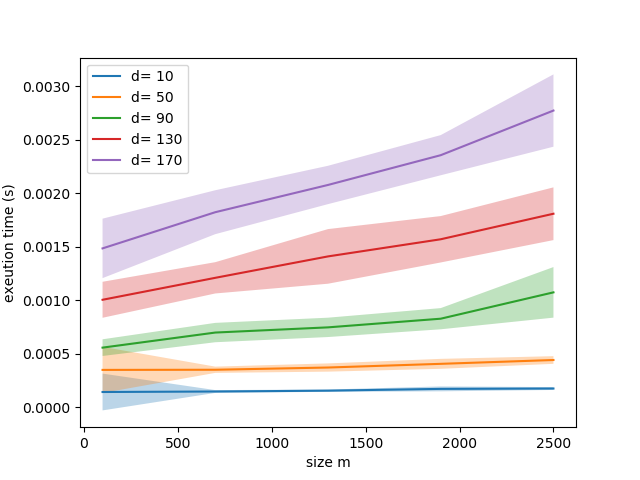
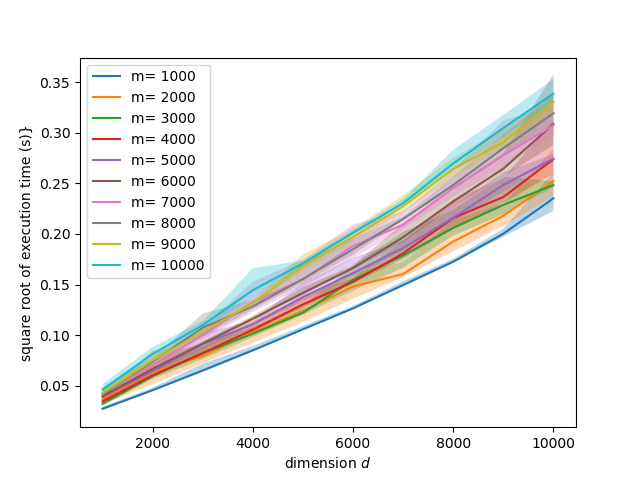
in progress

diff --git a/classifiers_performance_code.py b/classifiers_performance_code.py
@@ -25,6 +25,7 @@ from sklearn.decomposition import KernelPCA
 # Metric/Similarity learning modules: Ours, SLLC, ITML, LMNN
 # =============================================================================
 import similarity_learning as sl
+from metric_learn import LMNN, ITML_Supervised
 
 plt.close('all')
 cachedir = mkdtemp()
@@ -41,12 +42,12 @@ dataPath = "data/" # where data is stored
 
 datasetDict ={  
                 'blobs': 'blobs.data', # a toy set, to check if the script works well
-                'splice': 'splice.train',
-                'svmguide1': 'svmguide1.train',
-                'cod-rna': 'cod-rna.train',
-                'breast': 'breast.data',
-                'ionosphere': 'ionosphere.data',
-                'pima': 'pima.data',
+                # 'splice': 'splice.train',
+                # 'svmguide1': 'svmguide1.train',
+                # 'cod-rna': 'cod-rna.train',
+                # 'breast': 'breast.data',
+                # 'ionosphere': 'ionosphere.data',
+                # 'pima': 'pima.data',
             }
 
 #%%
@@ -57,19 +58,16 @@ datasetDict ={
 """
 
 l1LinClf = sl.l1LinearClassifier(solver= 'cvxpy')
-lambdaRange = 10.0**np.arange(2,-4,-1)
+lambdaRange = np.logspace(2,-3,6)
 l1LinClfParamGrid = {"linear__lambda_reg": lambdaRange}
-
-betaRangeSLLC = 10.0**np.arange(-2,-8, -1)
-betaRangeclosedForm = 10.0**np.arange(4,-8, -1)
-
-gammaRange = 10.0**np.arange(-2,-8,-1)
-
 
 # 
 metricLearnersDict= {
                     'closed-form': sl.bilinearSimilarityLearner(algorithm= 'closed-form'),
-                    'RVML': sl.RVMLSimilarityLearner(kernel= 'rbf', VP= 'classBased')
+                    # 'RVML': sl.RVMLSimilarityLearner(kernel= 'rbf', VP= 'classBased'),
+                    # 'SLLC': sl.bilinearSimilarityLearner(algorithm= 'sllc'),
+                    # 'LMNN': LMNN(),
+                    # 'ITML': ITML_Supervised(), 
                 }
 def pipelineConstructor(algoName):
     classifierStep = ('linear', l1LinClf)
@@ -80,8 +78,13 @@ estimatorsDict= {}
 for algoName in metricLearnersDict.keys():
     estimatorsDict[algoName] = {"estimator": pipelineConstructor(algoName)}
 
-estimatorsDict["closed-form"]["param_grid"] = {**{"closed-form__beta_reg": betaRangeclosedForm}, **l1LinClfParamGrid}
-estimatorsDict["RVML"]["param_grid"] = {**{"RVML__l": [10**p for p in range(-5,2)]}, **l1LinClfParamGrid} #exactly like in Perrot's code
+estimatorsDict["closed-form"]["param_grid"] = {**{"closed-form__beta_reg": np.logspace(4,-7,12)}, **l1LinClfParamGrid}
+# estimatorsDict["SLLC"]["param_grid"] = {**{"SLLC__beta_reg": np.logspace(-2,-7,6), "SLLC__gamma": np.logspace(-2,-7,6)}, **l1LinClfParamGrid}
+# estimatorsDict["RVML"]["param_grid"] = {**{"RVML__l": [10**p for p in range(-5,2)]}, **l1LinClfParamGrid} #exactly like in the authors' code
+# estimatorsDict["LMNN"]["param_grid"] = {}
+# estimatorsDict["ITML"]["param_grid"] = {**{"ITML__gamma": np.logspace(-4,4,9)}}
+
+
 #%%
 """ 
     Learning different classifiers after cross validation: 
@@ -115,7 +118,7 @@ for (dataName, dataFile) in list(datasetDict.items()):
         sigmaSquared = np.mean(pdist(X_train, metric= "sqeuclidean"))
         
         
-    dataRange = (-1/np.sqrt(X.shape[1]), 1/np.sqrt(X.shape[1]))
+    dataRange = (-1/np.sqrt(X.shape[1]), 1/np.sqrt(X.shape[1])) #[-1/sqrt(d), 1/sqrt(d)]
     minMaxScaler = preprocessing.MinMaxScaler(feature_range= dataRange)
     
 #    estimatorsDict["ITML"]["estimator"].steps[0] = ITML_Supervised(num_constraints= int(0.7*len(X))) # special case of ITML: number of constraints = number of landmarks
@@ -132,15 +135,25 @@ for (dataName, dataFile) in list(datasetDict.items()):
     
         print("data set: %s, algorithm: %s" %(dataName, algoName))
         algorithmDict = estimatorsDict[algoName]
+        
+        # add number of constraints to ITML
+        if algoName == "ITML":
+            try:
+                algorithmDict["param_grid"]["ITML__num_constraints"] = len(X_train)
+            except NameError:
+                algorithmDict["param_grid"]["ITML__num_constraints"] = int(0.7*len(X))
         # =============================================================================
         #   Performe a grid search on train/validation, then depending whether there are predefined train/test, use them or average over 100 runs
         # =============================================================================
     
         gridSearcher = model_selection.GridSearchCV(estimator= Pipeline(dataTransformingPipeline.steps + algorithmDict["estimator"].steps), 
                                                         param_grid= algorithmDict["param_grid"],
-                                                        n_jobs= -1, verbose= 3, cv= model_selection.KFold(n_splits= 5))
-            
-        cvResult = model_selection.cross_validate(gridSearcher, X, y, n_jobs= 1, cv= testCV, verbose= 2)
+                                                        n_jobs= -1, verbose= 0, cv= model_selection.KFold(n_splits= 5))
+        
+        if algoName == "ITML":
+            cvResult = model_selection.cross_validate(gridSearcher, X, (y==1).astype(np.int16), n_jobs= 1, cv= testCV, verbose= 2)
+        else:
+            cvResult = model_selection.cross_validate(gridSearcher, X, y, n_jobs= 1, cv= testCV, verbose= 2)
         
         # Choose a name to save cross validaiton result
         with open('%s-%s-KPCA.pickle'%(dataName, algoName), 'wb') as handle:

diff --git a/execTime_size.py b/execTime_size.py
@@ -19,47 +19,58 @@ import myIOFuncs as ioFuncs
 from time import time
 
 
+plotOnly = True
 
 
 #%%
-ridgeSimLearner = sl.bilinearSimilarityLearner(algorithm= 'closed-form')
-sizes = [100*i for i in range(1,31, 6)]
-dims = [10*i for i in range(1,21, 4)]
-nbReps = 100
-execTimes = np.zeros((len(sizes), len(dims), nbReps))
-for i, size in enumerate(sizes):
-    print(i)
-    for j, dim in enumerate(dims):
-#        print(j)
-        X, y = make_blobs(n_samples= size, n_features= dim, centers= 2)
-        for k in range(nbReps):
-            startTime = time()
-            ridgeSimLearner.fit(X,y)
-            endTime = time()
-            execTimes[i,j,k] = endTime - startTime
-            
-np.save("time_size_dim.npy", execTimes)
+sizes = [1000*i for i in range(1,11)]
+dims = [1000*i for i in range(1,11)]
+if not plotOnly:
+    ridgeSimLearner = sl.bilinearSimilarityLearner(algorithm= 'closed-form')
+    # sizes = [int(100*i) for i in np.linspace(1,200,10)]
+    sizes = [1000*i for i in range(1,11)]
+    
+    dims = [100*i for i in range(1,11)]
+    # dims = [170]
+    nbReps = 100
+    execTimes = np.zeros((len(sizes), len(dims), nbReps))
+    for i, size in enumerate(sizes):
+        print(i)
+        for j, dim in enumerate(dims):
+    #        print(j)
+            X, y = make_blobs(n_samples= size, n_features= dim, centers= 2)
+            for k in range(nbReps):
+                startTime = time()
+                ridgeSimLearner.fit(X,y)
+                endTime = time()
+                execTimes[i,j,k] = endTime - startTime
+                
+    np.save("time_size_dim.npy", execTimes)
 #%%
-plt.close('all')
-#plt.figure()
-#plt.plot(sizes, execTimes.mean(axis= -1))
+else:
+    plt.close('all')
+    # plt.figure()
+    # plt.plot(sizes, execTimes.mean(axis= -1))
+    
+    execTimes= np.load("time_size_dim.npy")
+    plt.figure()
+    for i, _ in enumerate(dims):
+        ioFuncs.plotWithConf(sizes, execTimes[:,i,:], axis= -1)
+    plt.legend(["d= %d"%d for d in dims])
+    plt.xlabel("size m")
+    plt.ylabel("execution time (s)")
+    plt.savefig("timeVSsize.png")
+    
+    # plt.figure()
+    # plt.plot(dims, execTimes.mean(axis= -1).T)
+    
+    plt.figure()
+    for i, _ in enumerate(sizes):
+        ioFuncs.plotWithConf(dims, np.sqrt(execTimes[i,:,:]), axis= -1)
+    plt.legend(["m= %d"%m for m in sizes])
+    plt.xlabel("dimension $d$")
+    # plt.xticks([d**2 for d in dims], ["$%s$^2"%str(d) for d in dims])
+    # plt.xticks([])
 
-execTimes= np.load("time_size_dim.npy")
-plt.figure()
-for i, _ in enumerate(dims):
-    ioFuncs.plotWithStd(sizes, execTimes[:,i,:], axis= -1)
-plt.legend(["d= %d"%d for d in dims])
-plt.xlabel("size m")
-plt.ylabel("exeution time (s)")
-plt.savefig("timeVSdim.png")
-
-#plt.figure()
-#plt.plot(dims, execTimes.mean(axis= -1).T)
-
-plt.figure()
-for i, _ in enumerate(sizes):
-    ioFuncs.plotWithStd(dims, execTimes[i,:,:], axis= -1)
-plt.legend(["m= %d"%m for m in sizes])
-plt.xlabel("dimesnion d")
-plt.ylabel("exeution time (s)")
-plt.savefig("timeVSsize.png")
+    plt.ylabel("square root of execution time (s)}")
+    plt.savefig("timeVSdim.png")

diff --git a/similarity_learning.py b/similarity_learning.py
@@ -69,11 +69,11 @@ class bilinearSimilarityLearner(BaseEstimator, TransformerMixin):
         if algorithm == 'sllc':
             X_signed = y[:, np.newaxis]*X
             A = cvx.Variable((d,d))
-            loss = cvx.sum(cvx.pos(1-X_signed*A*cvx.sum(X_signed, axis= 0).T/(n*gamma)))/n
+            loss = cvx.sum(cvx.pos(1-X_signed@A@cvx.sum(X_signed, axis= 0).T/(n*gamma)))/n
             reg = beta_reg*cvx.sum_squares(A)
                 
             prob = cvx.Problem(objective= cvx.Minimize(loss + reg))
-            prob.solve(solver= cvx.MOSEK)
+            prob.solve(solver= 'mosek')
             return np.array(A.value)
         
         """ our algorithm"""
@@ -196,11 +196,11 @@ class l1LinearClassifier(BaseEstimator, LinearClassifierMixin, SparseCoefMixin):
         if solverArg == "cvxpy":
 #            print("cvxpy used")
             alphaVar = cvx.Variable(X.shape[1])
-            loss = cvx.sum(cvx.pos(1 - y[:, np.newaxis]*X*alphaVar))
+            loss = cvx.sum(cvx.pos(1 - (y[:, np.newaxis]*X)@alphaVar))
             reg = lambda_reg*cvx.norm1(alphaVar)
             prob = cvx.Problem(objective= cvx.Minimize(loss + reg))
             try:
-                prob.solve(solver = cvx.MOSEK)
+                prob.solve(solver = 'mosek')
                 alpha = np.array(alphaVar.value).flatten()
             except :
                 print("Warning: MOSEK solver failed, switching to SGD...")

diff --git a/myIOFuncs.py b/myIOFuncs.py
@@ -47,10 +47,13 @@ def plot_learning_curve(train_sizes, train_scores, test_scores, ylim= None, titl
     plt.legend(loc="best")
     return plt
 
-def plotWithStd(xArray, yArray, axis):
+def plotWithConf(xArray, yArray, axis, interval= [0.05, 0.95]):
     meanYArray= np.mean(yArray, axis=  axis)
-    stdYArray= np.std(yArray, axis= axis)
+    # stdYArray= np.std(yArray, axis= axis)
+    quantile1Array = np.quantile(yArray, q= interval[0], axis= axis)
+    quantile2Array = np.quantile(yArray, q= interval[1], axis= axis)
     plt.plot(xArray, meanYArray)
-    plt.fill_between(xArray, meanYArray - stdYArray, meanYArray + stdYArray, alpha= 0.3)
+    # plt.fill_between(xArray, meanYArray - stdYArray, meanYArray + stdYArray, alpha= 0.3)
+    plt.fill_between(xArray, quantile1Array, quantile2Array, alpha= 0.3)
     return None
 
